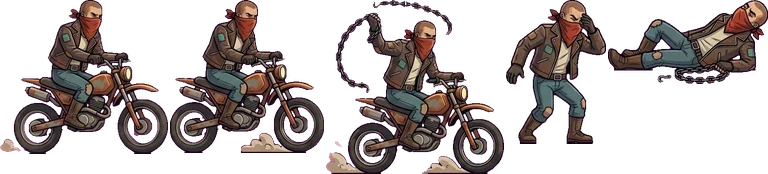
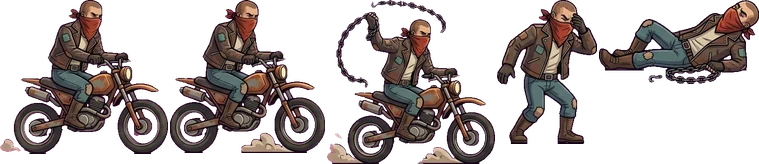
Last Loop 0.23.5 : motard qui reste sur sa moto, campements posés au sol
Claude-Session: https://claude.ai/code/session_01CU6W9sdeW2S5i8MCgkV8Yw

diff --git a/sw.js b/sw.js
@@ -1,7 +1,7 @@
-// Last Loop : service worker (généré à chaque mise en ligne, version 0.23.4).
+// Last Loop : service worker (généré à chaque mise en ligne, version 0.23.5).
 // Pages, code et styles : réseau d'abord (les mises à jour arrivent tout de suite), cache si hors ligne.
 // Images : cache d'abord, rafraîchies en fond. Musiques : gardées en cache à la première écoute.
-const VERSION = '0.23.4';
+const VERSION = '0.23.5';
 const CODE = 'lastloop-code-' + VERSION;
 const MEDIA = 'lastloop-media';
 const FILES = [ "./", "index.html", "manifest.webmanifest", "css/style.css", "js/main.js", "js/ui/abilities.js", "js/ui/balancePanel.js", "js/ui/campPanel.js", "js/ui/crewbar.js", "js/ui/debug.js", "js/ui/dragState.js", "js/ui/dragdrop.js", "js/ui/eventCard.js", "js/ui/gearUI.js", "js/ui/hud.js", "js/ui/icons.js", "js/ui/logPanel.js", "js/ui/mapPanel.js", "js/ui/menu.js", "js/ui/modal.js", "js/ui/panels.js", "js/ui/researchPanel.js", "js/ui/sceneInput.js", "js/ui/sheets.js", "js/ui/stationPanel.js", "js/ui/subtabs.js", "js/ui/summary.js", "js/ui/switchboard.js", "js/ui/toasts.js", "js/ui/trainPanel.js", "js/ui/tutorial.js", "js/ui/zoneUI.js", "js/audio/music.js", "js/audio/sound.js", "js/audio/wire.js", "js/sim/build.js", "js/sim/caboose.js", "js/sim/camp.js", "js/sim/combat.js", "js/sim/crew.js", "js/sim/defense.js", "js/sim/depot.js", "js/sim/energy.js", "js/sim/equipment.js", "js/sim/events.js", "js/sim/incursion.js", "js/sim/log.js", "js/sim/objectives.js", "js/sim/repair.js", "js/sim/research.js", "js/sim/route.js", "js/sim/simulate.js", "js/sim/station.js", "js/sim/world.js", "js/sim/zones.js", "js/render/assets.js", "js/render/camera.js", "js/render/crewLayer.js", "js/render/crewSprites.js", "js/render/enemies.js", "js/render/floaters.js", "js/render/landscape.js", "js/render/minimap.js", "js/render/mip.js", "js/render/parallax.js", "js/render/puppets.js", "js/render/scene.js", "js/render/sites.js", "js/render/train.js", "js/data/assets.js", "js/data/backgrounds.js", "js/data/balance.js", "js/data/build.js", "js/data/circuits.js", "js/data/config.js", "js/data/crewSprites.js", "js/data/enemies.js", "js/data/enemySprites.js", "js/data/events.js", "js/data/items.js", "js/data/landscape.js", "js/data/names.js", "js/data/objectives.js", "js/data/patchnotes.fr.js", "js/data/research.js", "js/data/sites.js", "js/data/sprites.js", "js/data/stations.js", "js/data/texts.fr.js", "js/data/wagons.js", "js/data/zones.js", "js/core/bus.js", "js/core/i18n.js", "js/core/loop.js", "js/core/rng.js", "js/core/save.js", "js/core/settings.js", "js/core/state.js", "assets/img/autoturret_head_0.webp", "assets/img/autoturret_head_1.webp", "assets/img/autoturret_head_2.webp", "assets/img/bg_c1_far.webp", "assets/img/bg_c1_mid.webp", "assets/img/bg_c1_near.webp", "assets/img/bogie.webp", "assets/img/camp_nomads_0.webp", "assets/img/camp_nomads_1.webp", "assets/img/camp_outpost_0.webp", "assets/img/camp_outpost_1.webp", "assets/img/camp_raiders_0.webp", "assets/img/camp_raiders_1.webp", "assets/img/camp_village_0.webp", "assets/img/camp_village_1.webp", "assets/img/coupler.webp", "assets/img/crew_cultiv_f.webp", "assets/img/crew_cultiv_f_m.webp", "assets/img/crew_cultiv_h.webp", "assets/img/crew_cultiv_h_m.webp", "assets/img/crew_guet_f.webp", "assets/img/crew_guet_f_m.webp", "assets/img/crew_guet_h.webp", "assets/img/crew_guet_h_m.webp", "assets/img/crew_mecano_f.webp", "assets/img/crew_mecano_f_m.webp", "assets/img/crew_mecano_h.webp", "assets/img/crew_mecano_h_m.webp", "assets/img/crew_savant_f.webp", "assets/img/crew_savant_f_m.webp", "assets/img/crew_savant_h.webp", "assets/img/crew_savant_h_m.webp", "assets/img/deco_barn.webp", "assets/img/deco_car.webp", "assets/img/deco_fence.webp", "assets/img/deco_house.webp", "assets/img/deco_pylon.webp", "assets/img/deco_rocks.webp", "assets/img/deco_tower.webp", "assets/img/deco_tractor.webp", "assets/img/deco_tree.webp", "assets/img/deco_windpump.webp", "assets/img/en_biker.webp", "assets/img/en_boss_c1.webp", "assets/img/en_brute.webp", "assets/img/en_militia.webp", "assets/img/en_runner.webp", "assets/img/enemy_drone.webp", "assets/img/ev_convoy.webp", "assets/img/ev_epidemic.webp", "assets/img/ev_map.webp", "assets/img/ev_mechanic.webp", "assets/img/ev_merchant.webp", "assets/img/ev_overheat.webp", "assets/img/ev_rail.webp", "assets/img/ev_storm.webp", "assets/img/ev_survivor.webp", "assets/img/ev_warehouse.webp", "assets/img/flag.webp", "assets/img/gus_0.webp", "assets/img/gus_1.webp", "assets/img/gus_2.webp", "assets/img/ico_ammo.webp", "assets/img/ico_auto.webp", "assets/img/ico_barrage.webp", "assets/img/ico_bolt.webp", "assets/img/ico_clock.webp", "assets/img/ico_com.webp", "assets/img/ico_crew.webp", "assets/img/ico_food.webp", "assets/img/ico_fuel.webp", "assets/img/ico_heart.webp", "assets/img/ico_keys.webp", "assets/img/ico_know.webp", "assets/img/ico_lock.webp", "assets/img/ico_log.webp", "assets/img/ico_map.webp", "assets/img/ico_mec.webp", "assets/img/ico_parts.webp", "assets/img/ico_question.webp", "assets/img/ico_research.webp", "assets/img/ico_sav.webp", "assets/img/ico_scrap.webp", "assets/img/ico_shield.webp", "assets/img/ico_site_camp.webp", "assets/img/ico_site_depot.webp", "assets/img/ico_site_field.webp", "assets/img/ico_site_forest.webp", "assets/img/ico_site_fortress.webp", "assets/img/ico_site_junkyard.webp", "assets/img/ico_site_mine.webp", "assets/img/ico_site_ruins.webp", "assets/img/ico_site_station.webp", "assets/img/ico_skull.webp", "assets/img/ico_smile.webp", "assets/img/ico_star.webp", "assets/img/ico_steam.webp", "assets/img/ico_target.webp", "assets/img/ico_ter.webp", "assets/img/ico_trade.webp", "assets/img/ico_train.webp", "assets/img/ico_wrench.webp", "assets/img/ico_zoom.webp", "assets/img/loco_t1.webp", "assets/img/loco_t2.webp", "assets/img/roof_attic.webp", "assets/img/roof_autoturret.webp", "assets/img/roof_berths.webp", "assets/img/signal_0.webp", "assets/img/signal_1.webp", "assets/img/signal_2.webp", "assets/img/site_depot.webp", "assets/img/site_field.webp", "assets/img/site_field_low.webp", "assets/img/site_forest.webp", "assets/img/site_forest_low.webp", "assets/img/site_fortress.webp", "assets/img/site_junkyard.webp", "assets/img/site_junkyard_low.webp", "assets/img/site_mine.webp", "assets/img/site_mine_low.webp", "assets/img/site_ruins.webp", "assets/img/site_station.webp", "assets/img/site_traverse.webp", "assets/img/studio_logo.webp", "assets/img/title_keyart.webp", "assets/img/turret_head_0.webp", "assets/img/turret_head_1.webp", "assets/img/turret_head_2.webp", "assets/img/wagon_boiler.webp", "assets/img/wagon_bunk.webp", "assets/img/wagon_caboose.webp", "assets/img/wagon_caboose_breached.webp", "assets/img/wagon_cargo.webp", "assets/img/wagon_foundry.webp", "assets/img/wagon_gatherer.webp", "assets/img/wagon_greenhouse.webp", "assets/img/wagon_lab.webp", "assets/img/wagon_turret.webp", "assets/img/wagon_turret_bare.webp", "assets/img/wagon_workshop.webp", "assets/img/wheel_driver.webp", "assets/img/wheel_wagon.webp", "assets/icons/icon-180.png", "assets/icons/icon-192.png", "assets/icons/icon-512.png", "assets/icons/icon-64.png", "assets/icons/maskable-512.png" ];

diff --git a/js/data/enemySprites.js b/js/data/enemySprites.js
@@ -1,7 +1,7 @@
 // Ennemis animés (planches Gemini) : un atlas par type, généré par build_enemy.py.
 // rects : [x, y, w, h, ancreX, ancreY (sol)] ; poses : indices des cadres ; refH : hauteur de référence (cadre de marche).
 export const ENEMY_SPRITES = {
-  biker: {"rects":[[0,0,168,154,79.8,154.0],[170,0,154,153,76.0,153.0],[326,0,178,174,84.2,174.5],[506,0,100,144,49.8,143.5],[608,0,160,84,79.5,71.0]],"poses":{"move":[0,1],"attack":[2,0],"hurt":[3],"dead":[4]},"refH":154.0},
+  biker: {"rects":[[0,0,168,154,91.0,154.0],[170,0,155,153,77.0,153.5],[327,0,168,164,90.2,164.4],[497,0,100,144,49.8,143.5],[599,0,160,84,79.5,71.0]],"poses":{"move":[0,1],"attack":[2,0],"hurt":[3],"dead":[4]},"refH":154.0},
   boss_c1: {"rects":[[0,0,385,184,384.3,184.5],[387,0,388,187,387.0,187.2],[777,0,389,194,387.9,193.5],[1168,0,385,181,384.3,180.9],[1555,0,386,182,385.2,181.8],[0,196,384,181,383.4,180.9],[386,196,388,178,387.0,178.2],[776,196,380,208,378.9,207.9],[1158,196,382,205,380.7,205.2]],"poses":{"move":[0,1,3,4,5],"fire":[2],"charge":[6],"jump":[7],"wreck":[8]},"refH":184.5},
   brute: {"rects":[[0,0,142,168,61.2,166.0],[144,0,142,165,58.0,165.0],[288,0,142,166,59.0,166.0],[432,0,142,165,57.0,165.0],[576,0,130,176,71.2,175.5],[708,0,174,153,81.0,153.0],[884,0,143,168,67.5,168.5],[1029,0,152,123,75.5,123.0]],"poses":{"move":[0,1,2,3],"attack":[4,5],"hurt":[6],"dead":[7]},"refH":166.0},
   militia: {"rects":[[0,0,80,170,40.5,170.0],[82,0,78,171,44.5,170.5],[162,0,82,170,43.0,170.0],[246,0,83,170,42.0,170.0],[331,0,74,170,42.0,170.5],[407,0,138,172,36.2,172.5],[547,0,168,172,41.2,171.5],[717,0,130,170,50.8,169.5],[849,0,176,93,87.5,92.0]],"poses":{"move":[0,1,2,3,4],"attack":[5,6],"hurt":[7],"dead":[8]},"refH":170.0},

diff --git a/js/render/enemies.js b/js/render/enemies.js
@@ -284,7 +284,7 @@ function animOf(type) {
   return { meta, frames };
 }
 // Cadence des poses (s par image)
-const TEMPO = { biker: 0.11, runner: 0.09, brute: 0.17, militia: 0.15 };
+const TEMPO = { biker: 0.16, runner: 0.09, brute: 0.17, militia: 0.15 };
 const ATTACK = { biker: 0.32, runner: 0.38, brute: 0.55, militia: 0.4 };
 const hurtUntil = new WeakMap();     // ennemi → fin de la grimace (render seulement)
 
@@ -312,9 +312,10 @@ function enemyFrame(e, t, attached, now) {
   let f;
   if (e.phase === 'dead') f = P.dead[0];
   else {
-    // Grimace quand il prend un coup (pas plus d'une fois toutes les 0,7 s)
+    // Grimace quand il prend un coup : accroché seulement, au plus une fois toutes les 2,5 s, jamais à moto
+    // (l'image « touché » du motard est à pied : il aurait l'air de sauter de sa moto et d'y remonter)
     const hu = hurtUntil.get(e);
-    if (now - e.hitT < 0.05 && e.hitT > 0 && (!hu || now > hu + 0.5)) hurtUntil.set(e, now + 0.2);
+    if (attached && e.type !== 'biker' && now - e.hitT < 0.05 && e.hitT > 0 && (!hu || now > hu + 2.3)) hurtUntil.set(e, now + 0.22);
     const h2 = hurtUntil.get(e);
     if (h2 && now < h2) f = P.hurt[0];
     else if (attached && e.moveT === undefined || attached && e.moveT >= 1) f = pick(P.attack, t, ATTACK[e.type] || 0.4);

diff --git a/js/data/patchnotes.fr.js b/js/data/patchnotes.fr.js
@@ -1,6 +1,11 @@
 // Notes de mise à jour montrées aux joueurs (menu « Nouveautés », et une fois après chaque mise à jour).
 // Les plus récentes en premier ; courtes, dans la langue du jeu. Le détail technique est dans CHANGELOG.md.
 export const PATCH_NOTES = [
+  { v: '0.23.5', title: 'Motard et campements', items: [
+    'Le motard reste sur sa moto, qui ne change plus de taille d’une image à l’autre.',
+    'Les ennemis ne sursautent plus à chaque tir de tourelle.',
+    'Les campements nomades et les villages sont bien posés au sol.'
+  ] },
   { v: '0.23.4', title: 'Portraits recadrés', items: [
     'Les portraits des survivants (pastilles et fiches) sont tous cadrés pareil, centrés sur le visage.'
   ] },

diff --git a/js/data/sites.js b/js/data/sites.js
@@ -92,8 +92,10 @@ export const SITE_ART = {
 };
 // Camps (images Gemini) : hauteur en unités ; fortifié à partir de cette défense ; drapeau (position, hauteur)
 export const CAMP_ART = {
-  village: { h: 225, flagX: -0.48 },
-  nomads: { h: 215, flagX: -0.48 },
+  // sink : part de l'image sous la ligne du sol (Gemini a dessiné le campement un peu en perspective :
+  // les tentes posent plus haut que le bas de l'image), par état [normal, fortifié]
+  village: { h: 225, flagX: -0.48, sink: [0.055, 0.045] },
+  nomads: { h: 215, flagX: -0.48, sink: [0.12, 0.055] },
   outpost: { h: 255, flagX: -0.48 },
   raiders: { h: 255, flagX: -0.47 },
   fortifiedAt: 3,

diff --git a/js/render/sites.js b/js/render/sites.js
@@ -319,7 +319,8 @@ function campArt(ctx, site, x, y, k, st) {
   const img = A && (getImage(`camp_${site.camp}_${fort}`) || getImage(`camp_${site.camp}_0`));
   if (!img) return false;
   const h = A.h * k, w = h * img.naturalWidth / img.naturalHeight;
-  drawSmooth(ctx, img, x - w / 2, y - h * 0.985, w, h);
+  const sink = (A.sink && A.sink[getImage(`camp_${site.camp}_${fort}`) ? fort : 0]) || 0.015;
+  drawSmooth(ctx, img, x - w / 2, y - h * (1 - sink), w, h);
   const color = ATTITUDE_COLORS[(st && st.attitude) || 'peaceful'];
   if (!flagArt(ctx, x + w * A.flagX, y, k, color, performance.now() / 1000)) flag(ctx, x + w * A.flagX, y, k, color);
   return true;

diff --git a/js/data/config.js b/js/data/config.js
@@ -2,7 +2,7 @@
 export const CONFIG = {
   // 'artifact' pendant le développement (artefact Claude), 'pages' une fois sur GitHub Pages
   TARGET: 'artifact',
-  VERSION: '0.23.4',
+  VERSION: '0.23.5',
   SAVE_KEY: 'loopexpress.save',
   SETTINGS_KEY: 'loopexpress.settings',
   HUB_URL: 'https://keismey.github.io/',

diff --git a/CHANGELOG.md b/CHANGELOG.md
@@ -1,5 +1,15 @@
 # Journal des versions
 
+## 0.23.5 — Motard et campements
+
+- **Motard** : son image « touché » est à pied, il semblait sauter de sa moto et y remonter à chaque coup reçu ;
+  il ne grimace plus à moto. Les trois images de moto (dessinées à des tailles un peu différentes par Gemini) sont
+  ramenées à la même taille et calées entre les deux roues : la moto ne gonfle plus et ne glisse plus. Cadence ralentie.
+- Les autres ennemis grimacent au plus une fois toutes les 2,5 s, et seulement accrochés au train (plus de sursauts
+  en pleine course sous le feu des tourelles).
+- **Campements** posés au sol : nomades et villages étaient dessinés un peu en perspective (tentes et maisons plus
+  haut que le bas de l'image) ; l'image descend sous la ligne du sol (`CAMP_ART.sink`, mesuré sur chaque image).
+
 ## 0.23.4 — Pas de debug en ligne, portraits recadrés
 
 - Portraits des survivants (pastilles et fiches) : même cadrage pour les huit bases, centrés sur le visage.
